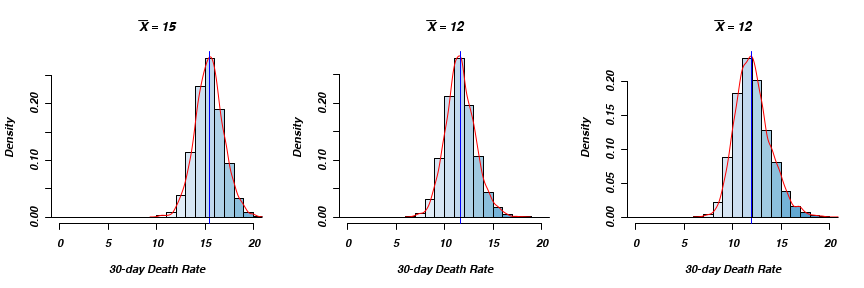
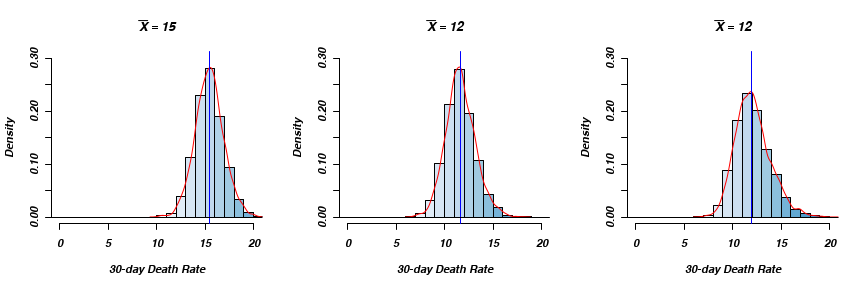
Minor changes in plot look.

diff --git a/rrmda.html b/rrmda.html
@@ -203,23 +203,26 @@ hljs.initHighlightingOnLoad();
 pal &lt;- colorRampPalette(cols)
 par(mfrow=c(1,3))
 hist(outcome[,11],xlab=&quot;30-day Death Rate&quot;,
-     main=substitute(bar(X)==k,list(k=mean(outcome[,11],na.rm=TRUE))),xlim=c(0,20),prob=TRUE,col=pal(20))
+     main=substitute(bar(X)==k,list(k=mean(outcome[,11],na.rm=TRUE))),
+     xlim=c(0,20),ylim=c(0,0.3),prob=TRUE,col=pal(20))
 lines(density(outcome[,11],na.rm=TRUE),col=&quot;red&quot;)             # add a density estimate with defaults
 abline(v=median(outcome[,11],na.rm=TRUE),col=&quot;blue&quot;)
 abline(h=0)
 hist(outcome[,17],xlab=&quot;30-day Death Rate&quot;,
-     main=substitute(bar(X)==k,list(k=mean(outcome[,17],na.rm=TRUE))),xlim=c(0,20),prob=TRUE,col=pal(20))
+     main=substitute(bar(X)==k,list(k=mean(outcome[,17],na.rm=TRUE))),
+     xlim=c(0,20),ylim=c(0,0.3),prob=TRUE,col=pal(20))
 lines(density(outcome[,17],na.rm=TRUE),col=&quot;red&quot;) 
 abline(v=median(outcome[,17],na.rm=TRUE),col=&quot;blue&quot;)
 abline(h=0)
 hist(outcome[,23],xlab=&quot;30-day Death Rate&quot;,
-     main=substitute(bar(X)==k,list(k=mean(outcome[,23],na.rm=TRUE))),xlim=c(0,20),prob=TRUE,col=pal(20))
+     main=substitute(bar(X)==k,list(k=mean(outcome[,23],na.rm=TRUE))),
+     xlim=c(0,20),ylim=c(0,0.3),prob=TRUE,col=pal(20))
 lines(density(outcome[,23],na.rm=TRUE),col=&quot;red&quot;) 
 abline(v=median(outcome[,23],na.rm=TRUE),col=&quot;blue&quot;)
 abline(h=0)
 </code></pre>
 
[2 lines of base64/hex data omitted]
 
 <p>As you can deduce from the Figure 1.</p>
 

diff --git a/rrmda.md b/rrmda.md
@@ -52,17 +52,20 @@ cols <- brewer.pal(9,"Blues")
 pal <- colorRampPalette(cols)
 par(mfrow=c(1,3))
 hist(outcome[,11],xlab="30-day Death Rate",
-     main=substitute(bar(X)==k,list(k=mean(outcome[,11],na.rm=TRUE))),xlim=c(0,20),prob=TRUE,col=pal(20))
+     main=substitute(bar(X)==k,list(k=mean(outcome[,11],na.rm=TRUE))),
+     xlim=c(0,20),ylim=c(0,0.3),prob=TRUE,col=pal(20))
 lines(density(outcome[,11],na.rm=TRUE),col="red")             # add a density estimate with defaults
 abline(v=median(outcome[,11],na.rm=TRUE),col="blue")
 abline(h=0)
 hist(outcome[,17],xlab="30-day Death Rate",
-     main=substitute(bar(X)==k,list(k=mean(outcome[,17],na.rm=TRUE))),xlim=c(0,20),prob=TRUE,col=pal(20))
+     main=substitute(bar(X)==k,list(k=mean(outcome[,17],na.rm=TRUE))),
+     xlim=c(0,20),ylim=c(0,0.3),prob=TRUE,col=pal(20))
 lines(density(outcome[,17],na.rm=TRUE),col="red") 
 abline(v=median(outcome[,17],na.rm=TRUE),col="blue")
 abline(h=0)
 hist(outcome[,23],xlab="30-day Death Rate",
-     main=substitute(bar(X)==k,list(k=mean(outcome[,23],na.rm=TRUE))),xlim=c(0,20),prob=TRUE,col=pal(20))
+     main=substitute(bar(X)==k,list(k=mean(outcome[,23],na.rm=TRUE))),
+     xlim=c(0,20),ylim=c(0,0.3),prob=TRUE,col=pal(20))
 lines(density(outcome[,23],na.rm=TRUE),col="red") 
 abline(v=median(outcome[,23],na.rm=TRUE),col="blue")
 abline(h=0)
